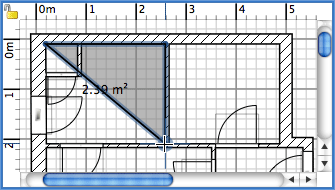
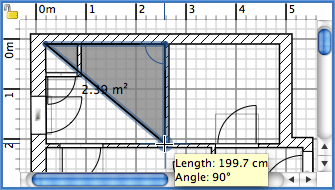
Updated help for new version
git-svn-id: https://svn.code.sf.net/p/sweethome3d/code/trunk@1980 03e323e1-6c6c-46a5-9f71-c4ce5d8c6204

diff --git a/com/eteks/sweethome3d/viewcontroller/resources/help/fr/editingPreferences.html b/com/eteks/sweethome3d/viewcontroller/resources/help/fr/editingPreferences.html
@@ -28,27 +28,45 @@
 	<tr>
 	<td><p>Pour &eacute;diter les pr&eacute;f&eacute;rences de Sweet Home 3D, choisissez <i>Sweet Home 3D &gt; Pr&eacute;f&eacute;rences...</i> sous
 	    Mac OS X ou <i>Fichier &gt; Pr&eacute;f&eacute;rences...</i> sous les autres syst&egrave;mes d'exploitation.</p>
-	  <p align="center"><img src="images/editingPreferences.png" width="300" height="233"></p>
+	  <p align="center"><img src="images/editingPreferences.png" width="424" height="306"></p>
 	  <p>Dans le panneau des pr&eacute;f&eacute;rences, vous pouvez choisir la <i>Langue</i> utilis&eacute;e dans l'interface utilisateur
 	    de Sweet Home 3D et l'<i>Unit&eacute;</i> utilis&eacute;e
 	    pour dessiner les r&egrave;gles et la grille du plan du
-	    logement, et pour afficher les longueurs. <br>
-	    La bo&icirc;te &agrave; cocher <i>Magn&eacute;tisme</i> active ou d&eacute;sactive le magn&eacute;tisme utilis&eacute; dans le plan du logement
-	    au cours du dessin des murs et le positionnement des meubles.<br>
-	    La bo&icirc;te &agrave; cocher <i>R&egrave;gles</i> permet de rendre visibles ou invisibles les r&egrave;gles affich&eacute;es
-	    en haut et &agrave; gauche du plan.<br>
-	    La bo&icirc;te &agrave; cocher <i>Grille</i> permet de rendre visible ou invisible la grile affich&eacute;e
-	    sous le plan.<br>
-La valeur de l'<i>Epaisseur des nouveaux murs</i> d&eacute;termine l'&eacute;paisseur des murs qui seront cr&eacute;&eacute;s
-	    une fois que le panneau des pr&eacute;f&eacute;rences sera ferm&eacute;.<br>
-	    La valeur de la <i>Hauteur des nouveaux murs</i> d&eacute;termine la hauteur des murs  qui seront
-	    cr&eacute;&eacute;s
-	    une fois que le panneau des pr&eacute;f&eacute;rences sera ferm&eacute;.</p>
-	  <p>Finallement, le bouton <i>R&eacute;initialiser l'affichage des conseils</i> r&eacute;initialise les r&eacute;ponses que vous avez
+	    logement, et pour afficher les longueurs. </p>
+	  <p> La bo&icirc;te &agrave; cocher <i>Magn&eacute;tisme</i> active ou d&eacute;sactive le magn&eacute;tisme utilis&eacute; dans
+	    le plan du logement au cours du dessin des murs et le positionnement des meubles.<br>
+	      La bo&icirc;te &agrave; cocher <i>R&egrave;gles</i> permet de rendre visibles ou invisibles les r&egrave;gles affich&eacute;es
+	      en haut et &agrave; gauche du plan.<br>
+	      La bo&icirc;te &agrave; cocher <i>Grille</i> permet de rendre visible ou invisible la grile affich&eacute;e
+	      sous le plan.<br>
+	      Les boutons radio <i>Ic&ocirc;nes du catalogue</i> et <i>Vue de dessus</i> permettent de choisir comment seront
+	      dessin&eacute;s les meubles dans le plan (voir les images ci-dessous).<br>
+Les boutons radio <i></i><i>Monochrome</i> et <i>Couleur ou texture du sol</i> permettent de choisir si les pi&egrave;ces doivent
+&ecirc;tre remplies dans le plan avec la couleur ou de la texture que vous avez choisies pour leur sol, ou en gris (en blanc
+&agrave; l'impression).<br>
+La liste d&eacute;roulante <i>Motif des murs dans le plan</i> permet de choisir le motif de remplissage des murs dans le
+plan.</p>
+	  <p>La valeur de l'<i>Epaisseur des nouveaux murs</i> d&eacute;termine l'&eacute;paisseur des murs qui seront cr&eacute;&eacute;s
+	        une fois que le panneau des pr&eacute;f&eacute;rences sera ferm&eacute;.<br>
+          La valeur de la <i>Hauteur des nouveaux murs</i> d&eacute;termine la hauteur des murs  qui seront
+	        cr&eacute;&eacute;s
+	        une fois que le panneau des pr&eacute;f&eacute;rences sera ferm&eacute;.</p>	  <p>Finallement, le bouton <i>R&eacute;initialiser l'affichage des conseils</i> r&eacute;initialise les r&eacute;ponses que vous avez
 	    donn&eacute;es aux bo&icirc;tes &agrave; cocher <i>Ne plus afficher ce conseil</i> affich&eacute;es dans les conseils
 	    qui apparaissent quand vous cliquez sur certains outils. Ceci implique que tous les dialogues o&ugrave; vous avez coch&eacute;
-	    cette option r&eacute;apparaitont au moment o&ugrave; vous cliquerez &agrave; nouveau sur ces outils.<br>
-        </p></td>
+	    cette option r&eacute;apparaitont au moment o&ugrave; vous cliquerez &agrave; nouveau sur ces outils.</p>
+	  <table border="0" align="center" cellpadding="0" cellspacing="5">
+        <tr align="center">
+          <td><img src="../images/defaultRendering.png" width="332" height="296"></td>
+          <td rowspan="2">&nbsp;&nbsp;&nbsp;</td>
+          <td><img src="../images/coloredRendering.png" width="332" height="296"></td>
+        </tr>
+        <tr>
+          <td align="center" valign="top">Rendu du plan par d&eacute;faut avec les ic&ocirc;nes du catalogue,<br>
+      les sols monochromes et les murs hachur&eacute;s</td>
+          <td align="center" valign="top">Rendu du plan avec les meubles vus de dessus,<br>
+      les sols color&eacute;s, et les murs en noir</td>
+        </tr>
+      </table></td>
 	</tr>
 </table>
 <div id="taskbox">
@@ -62,6 +80,16 @@ La valeur de l'<i>Epaisseur des nouveaux murs</i> d&eacute;termine l'&eacute;pai
           <td><p>Les pr&eacute;f&eacute;rences sont partag&eacute;es par toutes les fen&ecirc;tres Sweet Home 3D. Ainsi,
               la modification des pr&eacute;f&eacute;rences
               affectera toutes les fen&ecirc;tres ouvertes.</p>
+          </td>
+        </tr>
+        <tr valign="top">
+          <td><p>&#149;</p>
+          </td>
+          <td>
+            <p>Il est possible que la vue de dessus des meubles ne soit pas disponible &agrave; cause d'une configuration
+              limit&eacute;e
+              de votre syst&egrave;me. Dans ce cas, les boutons radio <i>Ic&ocirc;nes du catalogue</i> et <i>Vue de dessus</i> seront
+              d&eacute;sactiv&eacute;s.</p>
           </td>
         </tr>
         <tr valign="top">

diff --git a/com/eteks/sweethome3d/viewcontroller/resources/help/en/editingPreferences.html b/com/eteks/sweethome3d/viewcontroller/resources/help/en/editingPreferences.html
@@ -28,24 +28,40 @@
 	<tr>
 	<td><p>To edit Sweet Home 3D preferences, choose <i>Sweet Home 3D &gt; Preferences...</i> under Mac OS X or <i>File &gt; Preferences...</i> under
 	    other systems.</p>
-	  <p align="center"><img src="images/editingPreferences.png" width="244" height="230"></p>
+	  <p align="center"><img src="images/editingPreferences.png" width="338" height="305"></p>
 	  <p>In the preferences pane, you can choose the <i>Language</i> used in Sweet Home 3D user interface and the <i>Unit</i> used
-	    to draw  the rulers and grid of the home plan, and to display lengths and areas.<br>
-	    The <i>Magnetism</i> check
-	    box enables or disables the magnetism used in the home plan during <a href="drawingWalls.html">walls drawing</a> and <a href="editingFurniture.html">furniture
-	    placing</a>.<br>
-	    The <i>Rulers</i> check box allows to make the rulers around the plan visible or invisible.<br>
-	    The <i>Grid</i> check box allows to make the grid in the plan visible or invisible.<br>
-	      The <i>New walls thickness</i> value sets the thickness of all the walls that will be created once the preferences
-	      pane will be closed.<br>
-	      The <i>New  walls height</i> value 
-	      sets the height of all the walls that will be created once the preferences pane will
-      be closed.                                                                                                                                                                                                                                                                                                                                                                                                                                                                                                                                                                                                                                                                                                                                                                                                                                                                                                                                                                                                                                       </p>
-	  <p>Finally, the <i>Reset the display of tips</i> button resets the answers you gave to the check box <i>Do not display
+	    to draw  the rulers and grid of the home plan, and to display lengths and areas.</p>
+	  <p>	      The <i>Magnetism</i> check
+	      box enables or disables the magnetism used in the home plan during <a href="drawingWalls.html">walls drawing</a> and <a href="editingFurniture.html">furniture
+	      placing</a>.<br>
+	      The <i>Rulers</i> check box allows to make the rulers around the plan visible or invisible.<br>
+	      The <i>Grid</i> check box allows to make the grid in the plan visible or invisible.<br>
+	      The <i>Catalog icons</i> and  <i>Top view</i> radio buttons let you choose how the furniture should be drawn in
+	      the plan (see images below).<br>
+	      The <i>Monochrome</i> and <i>Floor color or texture</i> radio buttons let you choose whether rooms should be drawn
+	      in plan filled with the color or texture you chose for their floor, or with a grey color (printed as white).<br>
+	      The <i>Wall pattern in plan</i> combo box lets you choose the pattern used to fill walls in plan.</p>
+	  <p>	      The <i>New walls thickness</i> value sets the thickness of all the walls that will be created once the preferences
+	        pane will be closed.<br>
+          The <i>New  walls height</i> value 
+	        sets the height of all the walls that will be created once the preferences pane will
+        be closed. </p>	  <p>Finally, the <i>Reset the display of tips</i> button resets the answers you gave to the check box <i>Do not display
 	      this tip again</i> shown in the tips dialog boxes displayed when you click on some tools. This means that all the
 	      dialog boxes where you selected this check box  will appear
-	    again.<br>
-        </p></td>
+	    again.</p>
+	  <table border="0" align="center" cellpadding="0" cellspacing="5">
+        <tr align="center">
+          <td><img src="../images/defaultRendering.png" width="332" height="296"></td>
+          <td rowspan="2">&nbsp;&nbsp;&nbsp;</td>
+          <td><img src="../images/coloredRendering.png" width="332" height="296"></td>
+        </tr>
+        <tr>
+          <td align="center" valign="top">Default plan rendering with catalog icons,<br>
+            monochrome floors and walls filled with a hatch pattern</td>
+          <td align="center" valign="top">Plan rendering with top view furniture icons,<br>
+            floor colors, and walls filled with black color</td>
+        </tr>
+      </table>	  </td>
 	</tr>
 </table>
 <div id="taskbox">
@@ -59,6 +75,14 @@
 	    <td><p>Preferences are shared by all Sweet Home 3D windows. Therefore, editing preferences will have an effect on all
 	        opened windows.</p>
 	      </td>
+	    </tr>
+	  <tr valign="top">
+        <td><p>&#149;</p>
+        </td>
+        <td>
+          <p>Furniture icons seen from top  may not be available due to a limited configuration of your system. In
+            that case, the <i>Catalog icons</i> and <i>Top view</i> radio buttons will be  disabled.</p>
+        </td>
 	    </tr>
 	  <tr valign="top"><td width="16"><p>&#149;</p></td><td><p>Magnetism set
 	        in preferences pane can be temporarily toggled in the home plan, by pressing the <i>shift</i> key.</p></td></tr>

diff --git a/com/eteks/sweethome3d/viewcontroller/resources/help/en/drawingWalls.html b/com/eteks/sweethome3d/viewcontroller/resources/help/en/drawingWalls.html
@@ -33,15 +33,18 @@
 	        walls</i> tool</p>
 	    </blockquote>	  
 	  <p>Click in the home plan at the start point of the new wall, then click or double-click in the plan at its end point.
-	    As long as you don't double-click or press the <i>Escape</i> key, each new click indicates the opposite point of the current
-	    wall and the start point of the next wall. While drawing a set of walls, the start point of the first wall will
-	    be
+	    As long as you don't double-click or press the <i>Escape</i> key, each new click indicates the opposite point of the
+	    current wall and the start point of the next wall. While drawing a set of walls, the start point of the first wall
+	    will be
 	    attached to
 	    an existing
 	    wall start or end point if you
 	    click on that point, and the last  wall will be attached to another wall start or end point by
-	    double-clicking on that point. The clicked points are at the middle of the thickness of the drawn walls.<br>
-	    Walls are simultaneously drawn in the plan and in the 3D view.</p>
+	    double-clicking on that point. The clicked points are at the middle of the thickness of the drawn walls&nbsp;; the
+	     thickness and the  height of new walls can be changed in the <a href="editingPreferences.html">preferences</a> pane.<br>
+	    If you already <a href="drawingRooms.html">drew a room</a>, you can also create the
+	    walls around it by  double-clicking anywhere in that room. <br>
+      Walls are simultaneously drawn in the plan and in the 3D view.                                                                                                                                                                                                                                                                                                                                                                                                                                                                                                                                                                                                                                                                                                                                                                                                                                                                                                                                                                                                                                       </p>
 	  <p align="center"><img src="images/drawingWalls.png" alt="Drawing walls" width="349" height="174"></p>	  
 	  <p>To end
 	    the drawing of walls, choose <i>Plan &gt; Select </i> or select the <i>Select</i> tool.</p>
@@ -69,7 +72,13 @@
           <p>&#149;</p>
         </td>
         <td>
-          <p>To help you draw walls precisely, use wall length tooltip and alignment  lines.</p>
+          <p>To help you draw walls precisely, use the wall tooltip and the alignment  lines. If you press the <i>enter</i> key
+            when the plan has the focus, the values displayed in the tooltip will become editable to let you enter with the
+            keyboard the length, the angle and the thickness of the current wall (if you didn't start any wall yet,
+            the tooltip will display the coordinates of the start point of the new wall). Use the <i>up arrow</i>, <i>down
+            arrow</i> or <i>tab</i> keys
+            to edit an other value and press again the <i>enter</i> key to confirm the values you entered. If you want to
+            use again the mouse to draw walls, simply move it over the plan.</p>
         </td>
 	    </tr>
 	  <tr valign="top">
@@ -106,7 +115,7 @@
         </td>
         <td>
           <p>The unit displayed by default in tooltips, plan rulers and plan grid depends on your country. You may switch
-            to Centimeter or Inch in the <a href="editingPreferences.html">preferences</a> pane.          
+            to Centimeter, Meter, Millimeter  or Inch in the <a href="editingPreferences.html">preferences</a> pane.          
         </td>
 	    </tr>
 	  <tr valign="top">

diff --git a/com/eteks/sweethome3d/viewcontroller/resources/help/fr/drawingWalls.html b/com/eteks/sweethome3d/viewcontroller/resources/help/fr/drawingWalls.html
@@ -39,7 +39,10 @@
 	    d'un ensemble de murs, l'extr&eacute;mit&eacute; de d&eacute;part du premier mur sera attach&eacute;e &agrave; l'extr&eacute;mit&eacute; d'un
 	    mur existant si vous cliquez sur cette extr&eacute;mit&eacute;, et le dernier mur sera attach&eacute; &agrave; l'extr&eacute;mit&eacute; d'un
 	    autre mur si vous double-cliquez sur cette extr&eacute;mit&eacute;. Les extr&eacute;mit&eacute;s des murs que vous d&eacute;signez &agrave; chaque
-	    clic sont au milieu de l'&eacute;paisseur des murs dessin&eacute;s.<br>
+	    clic sont au milieu de l'&eacute;paisseur des murs dessin&eacute;s&nbsp;; l'&eacute;paisseur et la hauteur  des nouveaux
+	    murs peut &ecirc;tre modifi&eacute;es dans le panneau des <a href="editingPreferences.html">pr&eacute;f&eacute;rences</a>.<br>
+Si vous avez d&eacute;j&agrave; <a href="drawingRooms.html">dessin&eacute; une pi&egrave;ce</a>, vous pouvez cr&eacute;er aussi
+les murs autour de celle-ci en double-cliquant n'importe o&ugrave; dans cette pi&egrave;ce.<br>
 	    Les murs sont dessin&eacute;s simultan&eacute;ment dans le plan et dans la vue 3D.</p>
 	  <p align="center"><img src="images/drawingWalls.png" alt="Drawing walls" width="349" height="176"></p>	  
 	  <p>Pour terminer le dessin des murs, choisissez <i>Plan &gt; S&eacute;lectionner</i> ou s&eacute;lectionnez l'outil <i>S&eacute;lectionner</i> (ou
@@ -68,8 +71,15 @@
           <p>&#149;</p>
         </td>
         <td>
-          <p>Pour vous aider &agrave; dessiner les murs avec pr&eacute;cision, utilisez l'info-bulle indiquant la longueur
-            du mur et les lignes d'alignement sur les autres murs.</p>
+          <p>Pour vous aider &agrave; dessiner les murs avec pr&eacute;cision, utilisez l'info-bulle associ&eacute;e
+            au mur et les lignes d'alignement sur les autres murs. Si vous appuyez sur la touche <i>entr&eacute;e</i> quand
+            le plan a le focus, les valeurs affich&eacute;es dans l'info-bulle deviendront &eacute;ditables pour vous permettre
+            d'entrer au clavier la longueur, l'angle et l'&eacute;paisseur du mur en cours  (si vous n'avez d&eacute;but&eacute; aucun
+            mur, l'info-bulle affichera les coordonn&eacute;es du point de d&eacute;part du nouveau mur). Utilisez les touches <i>fl&egrave;che
+            haut</i>, <i>fl&egrave;che
+            bas</i>            ou <i>tab</i> pour &eacute;diter une autre valeur et appuyez &agrave; nouveau sur la touche <i>entr&eacute;e</i>            pour
+            confirmer les valeurs saisies. Si vous voulez r&eacute;utiliser la souris pour dessiner les murs, d&eacute;placez
+            simplement la souris dans le plan.</p>
         </td>
 	    </tr>
 	  <tr valign="top">
@@ -107,7 +117,8 @@
         </td>
         <td>
           <p>L'unit&eacute; affich&eacute;e par d&eacute;faut dans les info-bulles, les r&egrave;gles et la grille du plan
-            d&eacute;pend de votre pays. Vous pouvez choisir entre le Centim&egrave;tre et le Pouce dans le panneau des <a href="editingPreferences.html">pr&eacute;f&eacute;rences</a>. </td>
+            d&eacute;pend de votre pays. Vous pouvez choisir entre le Centim&egrave;tre, le M&egrave;tre, le Millim&egrave;tre  et
+            le Pouce dans le panneau des <a href="editingPreferences.html">pr&eacute;f&eacute;rences</a>. </td>
 	    </tr>
 	  <tr valign="top">
         <td>

diff --git a/com/eteks/sweethome3d/viewcontroller/resources/help/fr/drawingRooms.html b/com/eteks/sweethome3d/viewcontroller/resources/help/fr/drawingRooms.html
@@ -109,12 +109,28 @@
           <p>&#149;</p>
         </td>
         <td>
-          <p>Pour vous aider &agrave; dessiner les pi&egrave;ces avec pr&eacute;cision, utilisez les lignes d'alignement
-             et les guides ponctuels qui apparaissent &agrave; l'approche de l'intersection des murs. Si vous voulez d&eacute;sactiver
-             le magn&eacute;tisme appliqu&eacute; &agrave; l'intersection des murs et &agrave; l'angle des lignes que vous dessinez,
-             maintenez la touche
-            <i>majuscule</i> enfonc&eacute;e pendant le dessin, ou  d&eacute;sactivez le magn&eacute;tisme dans le panneau
-            des<a href="editingPreferences.html"> pr&eacute;f&eacute;rences</a>.</p>
+          <p>Pour vous aider &agrave; dessiner les pi&egrave;ces avec pr&eacute;cision, utilisez les info-bulles, les lignes
+            d'alignement et les guides ponctuels qui apparaissent &agrave; l'approche de l'intersection des murs. Si vous
+            appuyez sur la touche <i>entr&eacute;e</i> quand le plan a le focus, les valeurs affich&eacute;es dans l'info-bulle
+            deviendront &eacute;ditables pour vous permettre d'entrer au clavier la longueur et l'angle 
+            du segment en cours (si vous n'avez pas encore  d&eacute;sign&eacute; le premier point de la pi&egrave;ce, l'info-bulle
+            affichera les coordonn&eacute;es
+            de ce point). Utilisez les touches <i>fl&egrave;che haut</i>, <i>fl&egrave;che
+            bas</i> ou <i>tab</i> pour &eacute;diter
+            une autre valeur et appuyez &agrave; nouveau sur la touche <i>entr&eacute;e</i> pour confirmer les valeurs saisies.
+            Si vous voulez r&eacute;utiliser la souris pour dessiner la pi&egrave;ce, d&eacute;placez simplement la souris
+            dans le plan.</p>
+        </td>
+	    </tr>
+	  <tr valign="top">
+        <td>
+          <p>&#149;</p>
+        </td>
+        <td>
+          <p> Si vous voulez d&eacute;sactiver
+            le magn&eacute;tisme appliqu&eacute; &agrave; l'intersection des murs et &agrave; l'angle des lignes que vous
+            dessinez, maintenez la touche <i>majuscule</i> enfonc&eacute;e pendant le dessin, ou d&eacute;sactivez le magn&eacute;tisme
+            dans le panneau des<a href="editingPreferences.html"> pr&eacute;f&eacute;rences</a>.</p>
         </td>
 	    </tr>
 	  <tr valign="top">
@@ -133,7 +149,8 @@
         </td>
         <td>
           <p>L'unit&eacute; affich&eacute;e par d&eacute;faut dans les pi&egrave;ces, les r&egrave;gles et la grille du plan
-            d&eacute;pend de votre pays. Vous pouvez choisir entre le Centim&egrave;tre et le Pouce dans le panneau des <a href="editingPreferences.html">pr&eacute;f&eacute;rences</a>.
+            d&eacute;pend de votre pays. Vous pouvez choisir entre le Centim&egrave;tre, le M&egrave;tre, le Millim&egrave;tre  et
+            le Pouce dans le panneau des <a href="editingPreferences.html">pr&eacute;f&eacute;rences</a>.
             Si l'unit&eacute; choisie est le Pouce, la superficie des pi&egrave;ces sera affich&eacute;e en pied carr&eacute; (sq ft), sinon elle sera
             affich&eacute;e en m&egrave;tre carr&eacute; (m&sup2;).</td>
 	    </tr>

diff --git a/com/eteks/sweethome3d/viewcontroller/resources/help/en/drawingRooms.html b/com/eteks/sweethome3d/viewcontroller/resources/help/en/drawingRooms.html
@@ -36,7 +36,7 @@
 	  <ul>
 	    <li>click at each corner of the room, then double-click at its last point
 	      or press the <i>Escape</i> key after you added the last point, </li>
-	    <li>double-click anywhere inside an existing <b>closed</b> surface (i.e. surrounded by walls).</li>
+	    <li>double-click anywhere inside an existing <b>closed</b> surface (i.e. surrounded by <a href="drawingWalls.html">walls</a>).</li>
 	  </ul>
 	  <p>When you draw a room point by point under  magnetism activated, a colored point guide will show up  to help you click
 	    at each corner of the room. A room created with a double click will cover the floor area from wall to wall surrounding
@@ -104,9 +104,25 @@
           <p>&#149;</p>
         </td>
         <td>
-          <p>To help you draw rooms precisely, use  alignment  lines and wall intersection point guides. If you want to disable
-            the activated magnetism  on wall intersection points and for the angles of the lines you draw, hold
-            down the <i>shift</i> key while drawing, or by disabling magnetism in the <a href="editingPreferences.html">preferences</a> pane.</p>
+          <p>To help you draw rooms precisely, use  tooltips, alignment  lines and wall intersection point guides. If you
+            press the <i>enter</i> key
+            when the plan has the focus, the values displayed in the tooltip will become editable to let you enter with the
+            keyboard the length and the angle  of the current segment (if you didn't indicate
+            the first
+            point of the room yet, the tooltip will display the coordinates of that point). Use the
+            up arrow, down arrow
+            or <i>tab</i> keys
+            to edit an other value and press again the <i>enter</i> key to confirm the values you entered. If you want to
+            use again the mouse to draw the room, simply move it over the plan.</p>
+        </td>
+	    </tr>
+	  <tr valign="top">
+        <td>
+          <p>&#149;</p>
+        </td>
+        <td>
+          <p>If you want to disable the activated magnetism on wall intersection points and for the angles of the lines you
+            draw, hold down the <i>shift</i> key while drawing, or by disabling magnetism in the <a href="editingPreferences.html">preferences</a> pane.</p>
         </td>
 	    </tr>
 	  <tr valign="top">
@@ -124,8 +140,9 @@
         </td>
         <td>
           <p>The unit displayed by default in the room, plan rulers and plan grid depends on your country. You may switch
-            to Centimeter or Inch in the <a href="editingPreferences.html">preferences</a> pane. If Inch is the chosen
-            unit,  the room areas will be displayed in square feet, otherwise they will be displayed in square meter.</td>
+            to Centimeter, Meter, Millimeter or Inch in the <a href="editingPreferences.html">preferences</a> pane. If Inch
+            is the chosen unit, the room areas will be displayed in square feet, otherwise they will be displayed in square
+            meter.</td>
 	    </tr>
 	  <tr valign="top">
         <td>

diff --git a/com/eteks/sweethome3d/viewcontroller/resources/help/fr/editingRooms.html b/com/eteks/sweethome3d/viewcontroller/resources/help/fr/editingRooms.html
@@ -173,7 +173,8 @@
             </td>
             <td>
               <p>L'unit&eacute; affich&eacute;e par d&eacute;faut dans les pi&egrave;ces, les r&egrave;gles et la grille
-                du plan d&eacute;pend de votre pays. Vous pouvez choisir entre le Centim&egrave;tre et le Pouce dans le panneau
+                du plan d&eacute;pend de votre pays. Vous pouvez choisir entre le Centim&egrave;tre, le M&egrave;tre, le
+                Millim&egrave;tre  et le Pouce dans le panneau
                 des <a href="editingPreferences.html">pr&eacute;f&eacute;rences</a>. Si l'unit&eacute; choisie est le Pouce,
                 la superficie des pi&egrave;ces sera affich&eacute;e en pied carr&eacute; (sq ft), sinon elle sera affich&eacute;e
               en m&egrave;tre carr&eacute; (m&sup2;).</td>

diff --git a/com/eteks/sweethome3d/viewcontroller/resources/help/fr/editingFurniture.html b/com/eteks/sweethome3d/viewcontroller/resources/help/fr/editingFurniture.html
@@ -195,7 +195,8 @@ Les meubles modifi&eacute;s avec la souris sont dessin&eacute;s simultan&eacute;
             <td>
               <p>L'unit&eacute; affich&eacute;e par d&eacute;faut dans les info-bulles et le panneau d'un meuble
                 d&eacute;pend
-              de votre pays. Vous pouvez choisir entre le Centim&egrave;tre et le Pouce dans le panneau des <a href="editingPreferences.html">pr&eacute;f&eacute;rences</a>.</td>
+              de votre pays. Vous pouvez choisir entre le Centim&egrave;tre, le M&egrave;tre, le Millim&egrave;tre  et le
+              Pouce dans le panneau des <a href="editingPreferences.html">pr&eacute;f&eacute;rences</a>.</td>
           </tr>
           <tr valign="top">
             <td>

diff --git a/com/eteks/sweethome3d/viewcontroller/resources/help/fr/editingWalls.html b/com/eteks/sweethome3d/viewcontroller/resources/help/fr/editingWalls.html
@@ -165,8 +165,8 @@
             </td>
             <td>
               <p>L'unit&eacute; affich&eacute;e par d&eacute;faut dans l'info-bulle de longueur et le panneau d'un mur d&eacute;pend
-                de votre pays. Vous pouvez choisir entre le Centim&egrave;tre et le
-              Pouce dans le panneau des <a href="editingPreferences.html">pr&eacute;f&eacute;rences</a>.</td>
+                de votre pays. Vous pouvez choisir entre le Centim&egrave;tre, le M&egrave;tre, le Millim&egrave;tre  et
+              le Pouce dans le panneau des <a href="editingPreferences.html">pr&eacute;f&eacute;rences</a>.</td>
           </tr>
           <tr valign="top">
             <td>

diff --git a/com/eteks/sweethome3d/viewcontroller/resources/help/fr/importingFurniture.html b/com/eteks/sweethome3d/viewcontroller/resources/help/fr/importingFurniture.html
@@ -167,7 +167,8 @@
             </td>
             <td>
               <p>L'unit&eacute; affich&eacute;e par d&eacute;faut dans l'assistant importation de meubles d&eacute;pend
-              de votre pays. Vous pouvez choisir entre le Centim&egrave;tre et le Pouce dans le panneau des <a href="editingPreferences.html">pr&eacute;f&eacute;rences</a>.</td>
+              de votre pays. Vous pouvez choisir entre le Centim&egrave;tre, le M&egrave;tre, le Millim&egrave;tre et le Pouce dans le
+              panneau des <a href="editingPreferences.html">pr&eacute;f&eacute;rences</a>.</td>
           </tr>
           <tr valign="top">
             <td>

diff --git a/com/eteks/sweethome3d/viewcontroller/resources/help/fr/editingDimensions.html b/com/eteks/sweethome3d/viewcontroller/resources/help/fr/editingDimensions.html
@@ -137,7 +137,8 @@
             </td>
             <td>
               <p>La longueur affich&eacute;e sur les cotes est exprim&eacute;e par d&eacute;faut dans l'unit&eacute; de votre
-              pays. Vous pouvez choisir entre le Centim&egrave;tre et le Pouce dans le panneau des <a href="editingPreferences.html">pr&eacute;f&eacute;rences</a>.</td>
+              pays. Vous pouvez choisir entre le Centim&egrave;tre, le M&egrave;tre, le Millim&egrave;tre  et le Pouce dans
+              le panneau des <a href="editingPreferences.html">pr&eacute;f&eacute;rences</a>.</td>
           </tr>
         </table>
       </td>

diff --git a/com/eteks/sweethome3d/viewcontroller/resources/help/fr/importingBackground.html b/com/eteks/sweethome3d/viewcontroller/resources/help/fr/importingBackground.html
@@ -140,7 +140,8 @@
             <td>
               <p>L'unit&eacute; affich&eacute;e par d&eacute;faut dans  l'assistant
                 image d'arri&egrave;re plan  d&eacute;pend de votre pays. Vous
-              pouvez choisir entre le Centim&egrave;tre et le Pouce dans le panneau des <a href="editingPreferences.html">pr&eacute;f&eacute;rences</a>.</td>
+              pouvez choisir entre le Centim&egrave;tre, le M&egrave;tre, le Millim&egrave;tre  et le Pouce dans le panneau
+              des <a href="editingPreferences.html">pr&eacute;f&eacute;rences</a>.</td>
           </tr>
         </table>
       </td>
